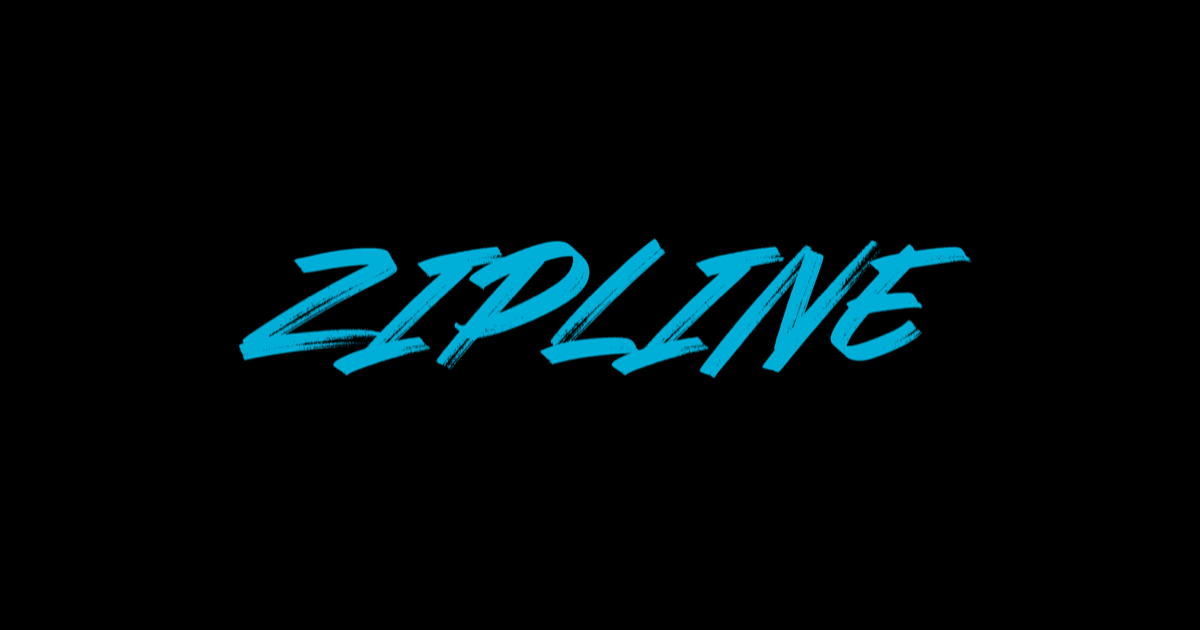
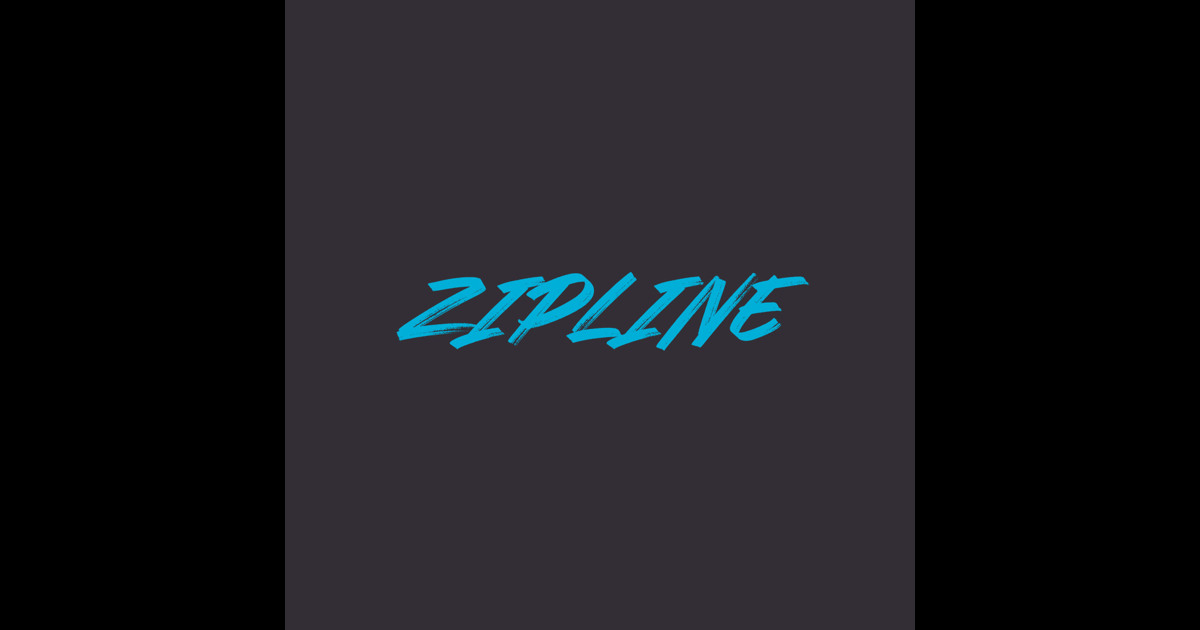
Update Social Splash Thumbnail (OpenGraph image)

diff --git a/ROADMAP.md b/ROADMAP.md
@@ -11,7 +11,7 @@
 ## 🎬 Content & Assets
 - [ ] **New Reel:** Edit and export a new 16:9 Company Reel to replace `broadway-reel.mp4` for the homepage modal.
 - [ ] **Landing Thumbnail:** Design a high-quality thumbnail/poster frame for the main landing page video.
-- [ ] **Social Splash Thumbnail:** Create a dedicated splash thumbnail for social media sharing and video embeds.
+- [x] **Social Splash Thumbnail:** Create a dedicated splash thumbnail for social media sharing and video embeds.
 
 ## 🛠 Internal Crew Portal (`/crew`) Roadmap
 - [ ] **Authentication:** Replace hardcoded `admin`/`zipline` with a real database auth (e.g., Supabase + NextAuth) for multi-user accounts.
